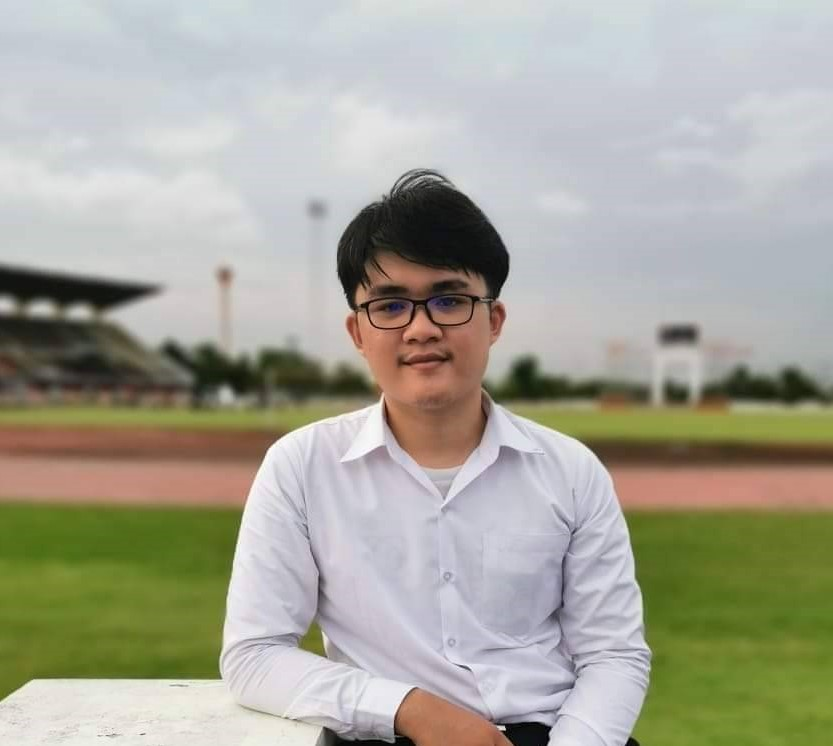
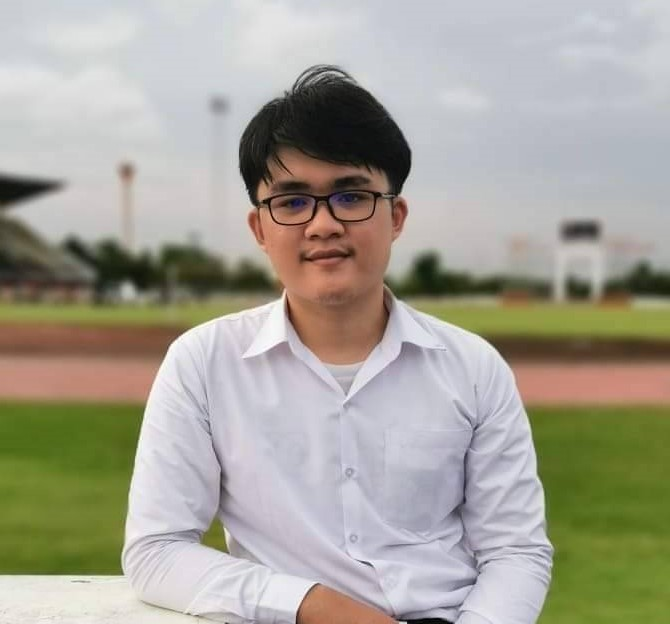
profile

diff --git a/index.html b/index.html
@@ -10,7 +10,7 @@
     <div class="container">
             <div class="profile">
                 <div class="profile-image">
-                    <img src="savetest.jpg">
+                    <img src="save.jpg">
                 </div>
                 <div class="profile-info">
                     <div class="name">CHAIYA RATTANAPATIMAKUM</div>
@@ -37,11 +37,149 @@
 
                 </div>
             </div>
-    </div>
-    <div class="container2">
-
-    </div>
+            <div class="content">
+                <div class="work-section">
+                    <div class="experience">
+                        <div class="title"><i class="fa-solid fa-briefcase"></i> WORK EXERIENCE</div>
+                        <div class="experience-list">
+                            <ul>
+                                <li class="column-list">
+                                    <div class="date">June 11, 2018 - Sep 10, 2018<p>Samut Prakan, Thailand</p>
+                                    </div>
+                                    <div class="description">IT assistant
+                                        <p>Thai Storage Battery Public Co.,Ltd.</p>
+                                        <ul>
+                                            <li>If a computer network and all its peripherals are set up, 
+                                                issues will still arise on a daily basis. IT assistants 
+                                                have to check their Company network for errors, repair 
+                                                malfunctioning peripherals, and help troubleshoot problems.
+                                            </li>
+                                            
+                                        </ul>
+                                    </div>
+                                </li>
+                            </ul>
+                        </div>
+                    </div>
+                </div>
+                <hr class="line-section">
+                <div class="center-section">
+                    <div class="section">
+                        <div class="education">
+                            <div class="title"><i class="fa-solid fa-graduation-cap"></i> EDUCATION</div>
+                            <div class="education-list">
+                                <ul>
+                                    <li>
+                                        <p class="faculty">Bachelor of Engineering in Computer Engineering</p>
+                                        <p class="gpa">GPAX: <span> 2.54, Graduating in 2022</span> </p>
+                                        <p class="location"><a href="http://www.kmitl.ac.th" target="_blank">King Mongkut's
+                                                Institute of Technology Ladkrabang</a></p>
+                                    </li>
+                                    <li>
     
+                                        <p class="faculty">High Vocational Certificate in Computer Bussiness
+                                        </p>
+                                        <p class="gpa">GPAX: <span>3.70, Graduated in 2019</span></p>
+    
+    
+                                        <p class="location"><a  target="_blank">Sriwattana Business Administration Technological</a></p>
+                                    </li>
+                                    <li>
+    
+                                        <p class="faculty">Vocational Certificate in Computer Bussiness</p>
+                                        <p class="gpa">GPAX: <span>3.04, Graduated in 2017</span></p>
+                                        <p class="location"><a target="_blank">Sriwattana Business Administration Technological</a></p>
+                                    </li>
+                                </ul>
+                            </div>
+    
+                        </div>
+                        <div class="achievements">
+                            <div class="title"><i class="fa-solid fa-trophy"></i> ACHIEVEMENTS</div>
+                            <div class="achievements-list">
+                                <ul>
+                                    <li>
+                                        Silver Medal Living Online (IC3 Digital Literacy Certification) 2018
+                                    </li>
+                                    
+                                </ul>
+                            </div>
+                        </div>
+                        <div class="project">
+                            <div class="title"><i class="fa-regular fa-file-lines"></i> Graduate Project</div>
+                            <div class="project-list">
+                                <ul>
+                                    <li>
+                                        Smar Dumbbell
+                                        <p>SMART DUMBBELL is a graduation project developed with Flutter And Arduino.
+                                           The Arduino part performs motion processing through the Gyroscope & Accelerometer.
+                                           Then send the movement values in the dumbbell posture created in the Application
+                                           via Bluetooth to display the values of the dumbbell lifting count by the Application
+                                           developed in Dart language with Flutter SDK. There are functions about sqlite to 
+                                           use as a local database to store movement values for retrospective And various widgets 
+                                           were created as designed in the UX/UI design phase, focusing on the principle of accuracy 
+                                           of movement in the right position that the application has chosen for the dumbbell position.</p>
+                                    </li>
+                                </ul>
+                            </div>
+                        </div>
+                    </div>
+                    <div class="section">
+                        <div class="tecnical-skills">
+                            <div class="title"><i class="fa-solid fa-toolbox"></i> TECHNICAL SKILL</div>
+                            <div class="tecnical-skills-list">
+                                <p>Web Development Skills</p>
+                                <ul>
+                                    <li>
+                                        Fontend Developer
+                                        <p>Javascript , HTML and CSS </p>
+                                    </li>
+                                    <li>
+                                        Backend Developer
+                                        <p> - PHP </p>
+                                        <p> - Database Relational database (MySQL) and Non-relational database
+                                            (Firebase)</p>
+                                        
+                                    </li>
+                                </ul>
+                                <p>Mobile Development Skills</p>
+                                <ul>
+                                    <li>
+                                        Flutter (Dart)
+                                    </li>
+                                    
+                                </ul>
+                                <p>IOT Development Skills</p>
+                                <ul>
+                                    <li>
+                                        Raspberry Pi
+                                    </li>
+                                    <li>
+                                        FPGA Board
+                                    </li>
+                                    <li>
+                                        Arduino board and other board.
+                                    </li>
+                                    <li>
+                                        Design a circuit and create a circuit from the design for IOT
+                                    </li>
+                                </ul>
+                                
+                                    </li>
+                                </ul>
+                            </div>
+                        </div>
+                    </div>
+    
+                </div>
+    
+            </div>
+            <div class="footer">
+    
+            </div>
+        </div>
+    </div>
+
 
 
 

diff --git a/style.css b/style.css
@@ -12,14 +12,14 @@
   }
   a {
     text-decoration: none;
-    color: white;
+    color: #FDF6F0;
   }
   .container {
     margin: 0px auto;
     width: 1000px;
     max-width: none !important;
-    min-height: 20vh;
-    background-color: rgb(0, 40, 116);
+    min-height: 100vh;
+    background-color: #FDF6F0;
     box-shadow: 0px 2px 10px gray;
   }
   .container2 {
@@ -45,14 +45,14 @@
     font-size: 30px;
     letter-spacing: 1px;
     cursor: pointer;
-    color: white;
+    color: #F5C6AA;
     font-weight: 800;
     padding-left: 30px;
   }
   .profile-info .faculty {
     font-size: 20px;
     letter-spacing: 0.3px;
-    color: rgb(255, 87, 36);
+    color: #fdd5b3;
     font-weight: 750;
     padding-bottom: 90px;
     padding-left: 30px;
@@ -60,7 +60,7 @@
   .profile-info .summary {
     letter-spacing: 0.3px;
     font-weight: 300;
-    color:white;
+    color:rgb(0, 0, 0);
     padding-left: 30px;
   }
   
@@ -88,9 +88,9 @@
     justify-content: center;
     align-items: center;
     gap: 15px;
-    background-color: rgb(255, 87, 36);
+    background-color: #FCD8D4;
     
-    color: white;
+    color: #FDF6F0;
     height: 40px;
   }
   
@@ -115,7 +115,7 @@
   .center-section .title,
   .work-section .title {
     font-size: 20px;
-    color: #000066;
+    color: #F5C6AA;
     font-weight: 600;
   }
   
@@ -126,7 +126,7 @@
   }
   
   .line-section {
-    border-top: 2px dashed #000066;
+    border-top: 2px dashed #F5C6AA;
   }
   
   .work-section .experience-list .column-list {
@@ -141,7 +141,7 @@
   }
   
   .work-section .experience-list .date p {
-    color: #0074b7;
+    color: #ffd4af;
     font-weight: 300;
     margin: 0;
   }
@@ -161,7 +161,7 @@
     font-size: 15px;
     margin-left: 20px;
     padding: 0;
-    color: #0074b7;
+    color: #ffd4af;
     font-weight: 300;
   }
   
@@ -195,7 +195,7 @@
   .center-section .education-list .gpa {
     font-size: 14px;
     font-weight: 500;
-    color: #00a0f3;
+    color: #ffd4af;
   }
   .center-section .education-list .gpa span {
     font-size: 16px;
@@ -204,12 +204,12 @@
   .center-section .education-list .location {
     font-size: 14px;
     font-weight: 300;
-    color: #0074b7;
+    color: #ffd4af;
   }
   
   .center-section .education-list .location a {
     text-decoration: none !important;
-    color: #0074b7;
+    color: #ffd4af;
   }
   .center-section .education-list .location a:active {
     text-decoration: none !important;
@@ -229,7 +229,7 @@
   
   .center-section .achievements-list ul li p {
     margin: 0;
-    color: #0074b7;
+    color: #ffd4af;
   }
   
   .center-section .tecnical-skills-list {
@@ -249,7 +249,7 @@
   .center-section .tecnical-skills-list ul li {
     font-size: 14px;
     list-style-type: square;
-    color: #0074b7;
+    color: #ffd4af;
     padding: 0;
   }
   
@@ -277,10 +277,10 @@
     font-size: 14px;
     font-weight: 300;
     margin: 0;
-    color: #0074b7;
+    color: #ffd4af;
   }
   .footer {
     height: 58px;
-    background-color: #000066;
+    background-color: #FCD8D4;
   }
   
